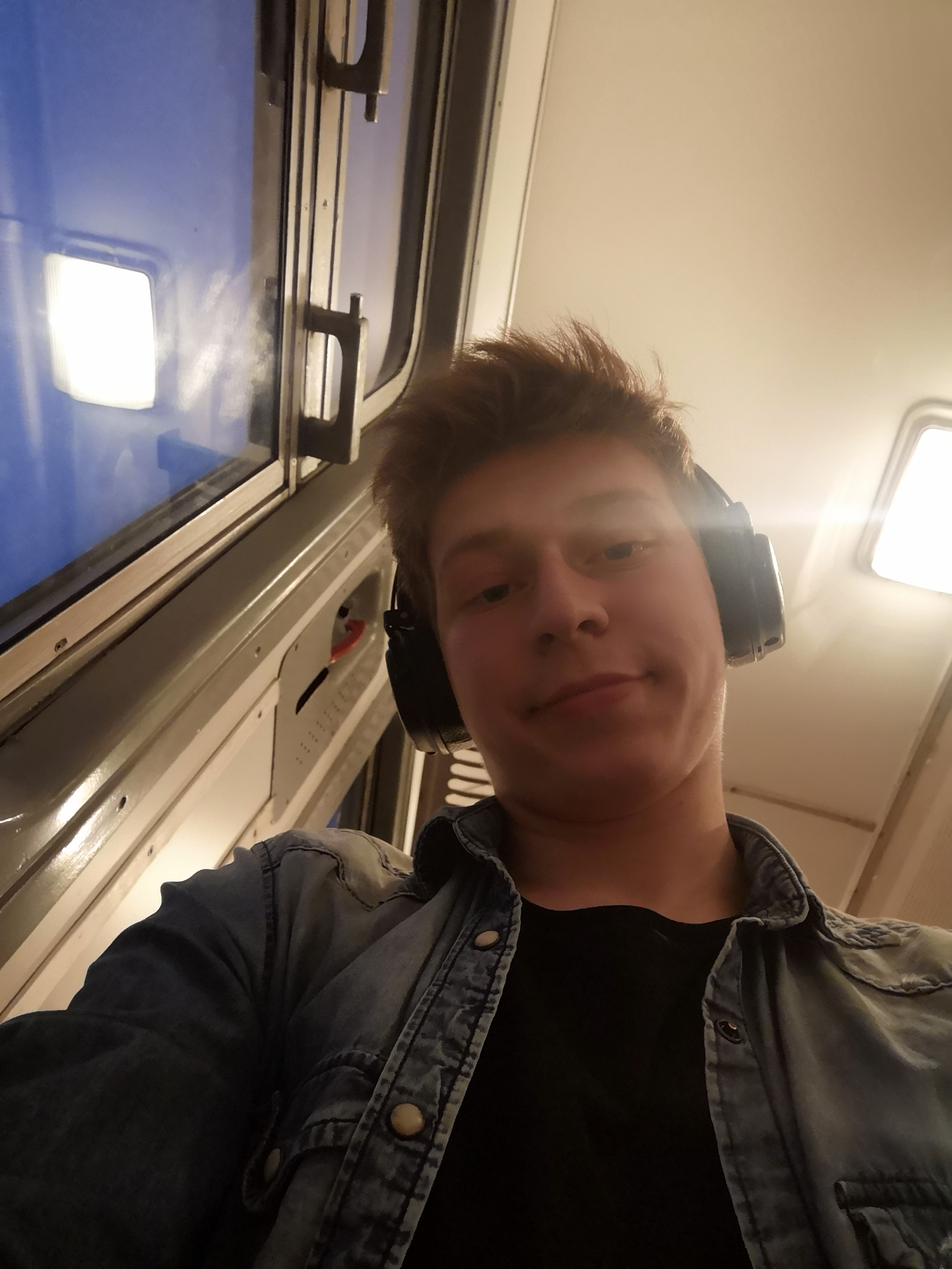
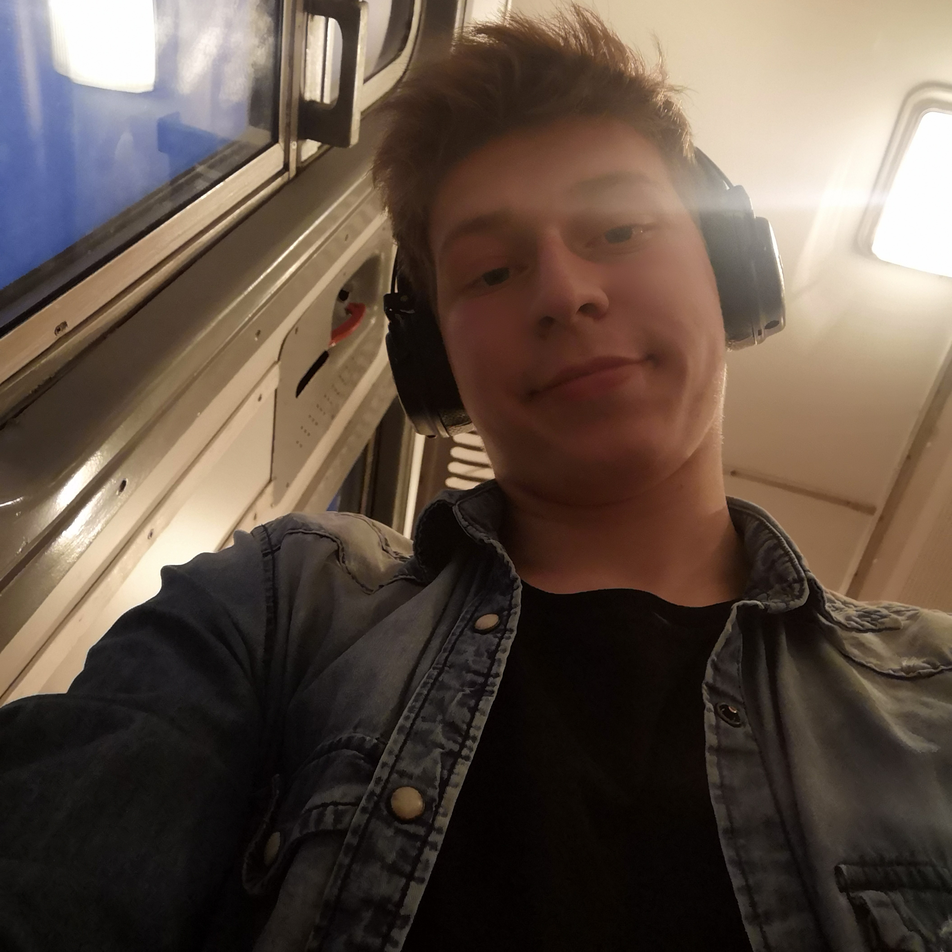
feat: main-section complite

diff --git a/style.css b/style.css
@@ -32,7 +32,8 @@ body {
     font-family: 'Tinos';
     font-size: 18px;
     line-height: 1.5;
-    color: rgb(97, 84, 84);
+    color: rgb(75, 75, 75);
+    background-color: rgb(202, 202, 202);
 }
 
 .header {
@@ -44,8 +45,8 @@ body {
 .main {
     display: flex;
     flex-wrap: wrap;
+    margin: 0 10%;
     flex-grow: 1;
-    background-color: rgb(202, 202, 202);
 }
 
 .footer {
@@ -83,14 +84,35 @@ body {
 
 .section {
     width: 50%;
+    display: flex;
 }
 
-#profile {
+.main-section {
     width: 100%;
+    justify-content: flex-end;
+    align-items: center
 }
 
 .section-title {
     font-family: Roboto;
     font-size: 30px;
     text-transform: uppercase;
+    color: rgb(44, 44, 44);
+}
+
+.name {
+    display: flex;
+    position: relative;
+    right: 250px;
+    letter-spacing: 5px;
+}
+
+.my_photo {
+    height: 240px;
+    width: 240px;
+    padding: 10px;
+    background: rgb(75, 75, 75);
+    position: relative;
+    right: 500px;
+    border-radius: 50%;
 }

diff --git a/index.html b/index.html
@@ -22,8 +22,9 @@
         </nav>
     </header>
     <main class="main">
-        <section class="section" id="profile">
-            <h1 class="section-title">Ivan Urbanovich</h1>
+        <section class="section main-section" id="profile">
+            <img src="./assets/img/my_photo.jpg" alt="My photo" class="my_photo">
+            <h1 class="section-title name">Ivan Urbanovich</h1>
         </section>
 
         <section class="section" id="contacts">
